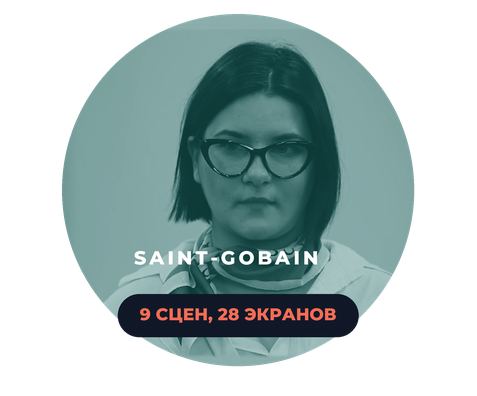
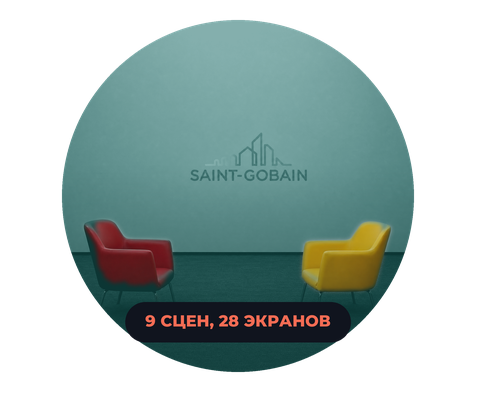
Новые круги-обложки: стенды Самары и Ставрополья, выставка «Самара», обучение Saint-Gobain
Три стенда выбивались из ряда огромными плашками, у обучающих видео
Saint-Gobain на обложке было лицо снятой актрисы. Теперь у всех четырёх
крупное название внутри круга и таблетка с одной цифрой, как у соседних
карточек.

- Самарская область: кадр паруса со стенда, ладья выходит носом за круг
  (парус и ладья разнесены на слои через NordRouter, gpt-image-2-edit)
- Ставрополье: куб с объёмной пшеницей, тинт ослаблен
- Выставка «Самара»: экран-парус, «4 месяца под ключ»
- Saint-Gobain: та же переговорная без актёров, кресла в родном цвете

Генератор scripts/gen-covers-stands-sgt.py, исходники в scripts/covers-src/.
В .gitignore добавлены __pycache__ и *.pyc.

diff --git a/scripts/gen-covers-stands-sgt.py b/scripts/gen-covers-stands-sgt.py
@@ -1,0 +1,273 @@
+#!/usr/bin/env python3
+"""Новые круги-постеры (477×396) для четырёх карточек, которые выбивались из ряда:
+стенд Самарской области, стенд Ставрополья, выставка «Самара», обучение Saint-Gobain.
+
+Механика одна на всех, в ключе соседних SG-карточек (v2.2): настоящее фото
+под тинтом цвета кейса, имя клиента разрядкой, тёмная таблетка с одной
+метрикой, кубики HM по углам. Огромных плашек больше нет.
+
+Картинки, сделанные через NordRouter (tools/nordrouter), лежат в scripts/covers-src/:
+- sgt-empty-room-sq.png: общий план переговорной курса (d1-wide), из кадра убраны
+  оба актёра (лиц снятых людей на карточке быть не должно) и кадр достроен до
+  квадрата (gpt-image-2-edit, два прохода). Кресла остаются в родном цвете;
+- stav-cube-cut.png: графика куба, вырезанная из фона (recraft-remove-bg); из неё
+  stav-wheat.png, пшеничное «сердце» без остатков рамки. Лежит поверх круга
+  и выходит за его верх, как объёмная графика выходила за грани куба.
+
+python3 scripts/gen-covers-stands-sgt.py [--out DIR]   (без --out пишет в mirror)
+webp потом через scripts/gen-webp.sh."""
+import argparse
+import os
+
+from PIL import Image, ImageDraw, ImageFont, ImageFilter, ImageOps
+
+HERE = os.path.dirname(os.path.abspath(__file__))
+ROOT = os.path.abspath(os.path.join(HERE, '..'))
+SRC = os.path.join(HERE, 'covers-src')
+LIB = os.path.join(ROOT, 'mirror', 'images', 'lib')
+_FONT = os.path.join(HERE, 'fonts', 'Montserrat.ttf')
+
+W, H = 477, 396
+CX, CY, R = 238, 196, 176
+SS = 4
+WHITE = (255, 255, 255)
+INK = (16, 20, 30)
+
+# кубики HM с карточки Eaton: вырезаем по связной области цвета, без
+# хвостов белого круга и линий, которые попадают в прямоугольный кроп
+_E = Image.open(os.path.join(LIB, 'as6135-3563-4735-a365-643234376439', 'icons-112.png')).convert('RGBA')
+_BOX = {'green': (19, 14, 81, 77), 'orange': (379, 26, 443, 92),
+        'red': (14, 296, 75, 372), 'magenta': (382, 341, 449, 382)}
+
+
+def _sprite(box, pad=6):
+    x0, y0, x1, y1 = box
+    crop = _E.crop((x0 - pad, y0 - pad, x1 + pad, y1 + pad))
+    px = crop.load()
+    keep = Image.new('L', crop.size, 0)
+    kp = keep.load()
+    for y in range(crop.height):
+        for x in range(crop.width):
+            r, g, b, a = px[x, y]
+            if a > 20 and max(r, g, b) - min(r, g, b) > 45:
+                kp[x, y] = 255
+    keep = keep.filter(ImageFilter.MaxFilter(5))
+    crop.putalpha(Image.composite(crop.getchannel('A'), Image.new('L', crop.size, 0), keep))
+    return crop
+
+
+CUBE = {k: _sprite(v) for k, v in _BOX.items()}
+
+METRICS = {
+    'samara-vdnh': 'ВЫСТАВКА-ФОРУМ «РОССИЯ»',
+    'stavropol-vdnh': '248 ДНЕЙ НА ВДНХ',
+    'samara-exhibition': '4 МЕСЯЦА ПОД КЛЮЧ',
+}
+POP_LADYA = (236, 0, 236)  # x, y, ширина вырезанной ладьи на холсте 477×396
+
+
+def font(sz, v='ExtraBold'):
+    f = ImageFont.truetype(_FONT, sz)
+    try:
+        f.set_variation_by_name(v)
+    except Exception:
+        pass
+    return f
+
+
+def square(path, fx=0.5, fy=0.5, zoom=1.0):
+    """Квадратный кроп с фокусом (fx, fy) и приближением zoom."""
+    im = Image.open(path).convert('RGB')
+    side = int(min(im.size) / zoom)
+    left = int((im.width - side) * fx)
+    top = int((im.height - side) * fy)
+    return im.crop((left, top, left + side, top + side))
+
+
+def tint(im, dark, mid, hi=0.3):
+    """Дуотон: тени в dark, средние в mid, свет к белому (как у SG-карточек)."""
+    g = ImageOps.autocontrast(im.convert('L'), cutoff=2)
+    bands = []
+    for c in range(3):
+        lut = [max(0, min(255, round(dark[c] + (mid[c] - dark[c]) * (v / 255)
+                                     + (255 - mid[c]) * (v / 255) ** 2 * hi))) for v in range(256)]
+        bands.append(g.point(lut))
+    return Image.merge('RGB', bands)
+
+
+def spaced(d, cx, y, text, f, color, track):
+    ws = [d.textbbox((0, 0), ch, font=f)[2] for ch in text]
+    total = sum(ws) + track * (len(text) - 1)
+    x = cx - total / 2
+    for ch, w in zip(text, ws):
+        d.text((x, y), ch, font=f, fill=color)
+        x += w + track
+
+
+def pill(d, cx, y, text, fg, S, size=16, maxw=290):
+    pf = font(int(size * S))
+    while d.textlength(text, font=pf) > maxw * S and size > 12:
+        size -= 1
+        pf = font(int(size * S))
+    tb = d.textbbox((0, 0), text, font=pf)
+    tw, th = tb[2] - tb[0], tb[3] - tb[1]
+    px, py = int(20 * S), int(13 * S)
+    pw, ph = tw + px * 2, th + py * 2
+    x = cx - pw // 2
+    d.rounded_rectangle([x, y, x + pw, y + ph], radius=ph // 2, fill=INK + (255,))
+    d.text((x + px - tb[0], y + py - tb[1]), text, font=pf, fill=fg + (255,))
+
+
+def cubes(img, spec, S):
+    for name, (x, y), scale, flip in spec:
+        spr = CUBE[name]
+        spr = spr.resize((int(spr.width * scale * S), int(spr.height * scale * S)), Image.LANCZOS)
+        if flip:
+            spr = spr.transpose(Image.FLIP_LEFT_RIGHT)
+        img.alpha_composite(spr, (int(x * S), int(y * S)))
+
+
+def title_block(img, cx, y, lines, S, size=31, maxw=300):
+    """Крупное название в 1-2 строки с мягкой тенью, чтобы читалось на любом фото."""
+    f = font(int(size * S), 'Black')
+    probe = ImageDraw.Draw(img)
+    while max(probe.textlength(ln, font=f) for ln in lines) > maxw * S and size > 20:
+        size -= 1
+        f = font(int(size * S), 'Black')
+    lh = int(size * 1.08 * S)
+    sh = Image.new('RGBA', img.size, (0, 0, 0, 0))
+    ds = ImageDraw.Draw(sh)
+    for i, ln in enumerate(lines):
+        tw = ds.textlength(ln, font=f)
+        ds.text((cx - tw / 2, y + i * lh + 2 * S), ln, font=f, fill=(0, 0, 0, 150))
+    img.alpha_composite(sh.filter(ImageFilter.GaussianBlur(5 * S)))
+    d = ImageDraw.Draw(img)
+    for i, ln in enumerate(lines):
+        tw = d.textlength(ln, font=f)
+        d.text((cx - tw / 2, y + i * lh), ln, font=f, fill=WHITE + (255,))
+
+
+def poster(photo, dark, mid, name, metric, metric_fg, cube_spec, pop=None, hi=0.18, keep=None,
+           title=None, mix=1.0, title_y=24, pop_under=False):
+    S = SS
+    img = Image.new('RGBA', (W * S, H * S), (0, 0, 0, 0))
+    cx, cy, r = CX * S, CY * S, R * S
+    src = photo.resize((2 * r, 2 * r), Image.LANCZOS)
+    disc = tint(src, dark, mid, hi).convert('RGBA')
+    if mix < 1.0:
+        # тон кейса только слоем поверх фото, чтобы картинка читалась
+        disc = Image.blend(src.convert('RGBA'), disc, mix)
+    if keep is not None:
+        # цвет возвращается только там, где keep(r, g, b, y) вернул True
+        m = Image.new('L', src.size, 0)
+        sp, mp = src.load(), m.load()
+        for y in range(src.height):
+            for x in range(src.width):
+                if keep(*sp[x, y], y / src.height):
+                    mp[x, y] = 255
+        m = m.filter(ImageFilter.MaxFilter(3)).filter(ImageFilter.GaussianBlur(2 * S))
+        disc = Image.composite(src.convert('RGBA'), disc, m)
+    # затемнение низа круга под имя и таблетку
+    col = Image.new('L', (1, 256))
+    for y in range(256):
+        t = max(0.0, (y / 255 - 0.40) / 0.60)
+        col.putpixel((0, y), int((200 if title else 160) * t ** 1.2))
+    shade = Image.new('RGBA', (2 * r, 2 * r), dark + (0,))
+    shade.putalpha(col.resize((2 * r, 2 * r)))
+    disc.alpha_composite(shade)
+    mask = Image.new('L', (2 * r, 2 * r), 0)
+    ImageDraw.Draw(mask).ellipse([0, 0, 2 * r - 1, 2 * r - 1], fill=255)
+    img.paste(disc, (cx - r, cy - r), mask)
+    cubes(img, cube_spec, S)
+    if pop is not None:
+        spr, (px, py, pw) = pop
+        k = pw * S / spr.width
+        spr = spr.resize((int(spr.width * k), int(spr.height * k)), Image.LANCZOS)
+        # низ объекта обрезает круг, за край выходит только верх (нос ладьи)
+        ox, oy = int(px * S), int(py * S)
+        clip = Image.new('L', img.size, 0)
+        cd = ImageDraw.Draw(clip)
+        cd.ellipse([cx - r, cy - r, cx + r, cy + r], fill=255)
+        cd.rectangle([0, 0, img.size[0], cy - int(40 * S)], fill=255)
+        clip = clip.filter(ImageFilter.GaussianBlur(1 * S)).crop((ox, oy, ox + spr.width, oy + spr.height))
+        spr.putalpha(Image.composite(spr.getchannel('A'), Image.new('L', spr.size, 0), clip))
+        a = spr.getchannel('A')
+        rgb = spr.copy()  # в родном цвете
+        sh = Image.new('RGBA', rgb.size, (0, 0, 0, 0))
+        sh.putalpha(a.point(lambda v: int(v * 0.35)))
+        sh = sh.filter(ImageFilter.GaussianBlur(6 * S))
+        img.alpha_composite(sh, (int(px * S), int(py * S) + 6 * S))
+        img.alpha_composite(rgb, (int(px * S), int(py * S)))
+    if title:
+        title_block(img, cx, cy + int(title_y * S), title, S)
+    d = ImageDraw.Draw(img)
+    if name:
+        spaced(d, cx, cy + int(62 * S), name, font(int(18 * S)), WHITE + (255,), int(3 * S))
+    if metric:
+        if title:
+            pill(d, cx, cy + r - int(74 * S), metric, metric_fg, S, size=18)
+        else:
+            pill(d, cx, cy + r - int(70 * S), metric, metric_fg, S)
+    return img.resize((W, H), Image.LANCZOS)
+
+
+# раскладки кубиков: у каждой карточки своя
+CUBES_A = [('orange', (6, 10), 1.0, True), ('green', (8, 300), 1.0, False),
+           ('magenta', (392, 334), 1.0, False)]
+CUBES_B = [('green', (4, 40), 1.0, True), ('red', (8, 300), 0.95, False),
+           ('orange', (402, 290), 1.0, False)]
+CUBES_C = [('magenta', (8, 336), 1.0, True), ('orange', (404, 10), 1.0, False),
+           ('red', (406, 290), 0.95, True)]
+
+
+def build():
+    out = {}
+    # кадр с паруса на стенде: белый парус с гербом, небо, ладья (присланный кадр лежит
+    # в covers-src/ladya-photo.jpg). Через gpt-image-2-edit из него сделаны два слоя:
+    # sail-clean.jpg (лодка убрана, парус и небо достроены) и ladya-boat.png
+    # (сама ладья). Круг берёт парус, ладья поверх выходит носом за край круга
+    boat = os.path.join(SRC, 'ladya-boat.png')
+    pop = (Image.open(boat).convert('RGBA'), POP_LADYA) if os.path.exists(boat) else None
+    out['custom-samara-vdnh'] = poster(
+        Image.open(os.path.join(SRC, 'sail-clean.jpg')).convert('RGB').crop((176, 105, 1143, 1072)),
+        dark=(20, 30, 90), mid=(40, 90, 200), name='', title=['СТЕНД САМАРСКОЙ', 'ОБЛАСТИ'],
+        metric=METRICS['samara-vdnh'], metric_fg=(120, 190, 255), cube_spec=CUBES_A,
+        pop=pop, mix=0.0, title_y=46)
+    out['custom-stavropol-vdnh'] = poster(
+        square(os.path.join(ROOT, 'mirror', 'images', 'stavropol', 'poster-main.jpg'), 0.5, 0.2),
+        dark=(24, 10, 40), mid=(104, 56, 132), name='', title=['СТЕНД', 'СТАВРОПОЛЬЯ'],
+        metric=METRICS['stavropol-vdnh'], metric_fg=(206, 160, 255), cube_spec=CUBES_B,
+        mix=0.3, title_y=34)
+    out['custom-samara-exhibition'] = poster(
+        square(os.path.join(ROOT, 'mirror', 'portfolio', 'samara-exhibition', 'photos', 'Ekran_parus.jpg'), 0.28),
+        dark=(10, 36, 10), mid=(70, 140, 36), name='', title=['ВЫСТАВКА', '«САМАРА»'],
+        metric=METRICS['samara-exhibition'], metric_fg=(150, 230, 90), cube_spec=CUBES_C,
+        mix=0.35, title_y=34)
+    room = os.path.join(SRC, 'sgt-empty-room-sq.jpg')
+    if os.path.exists(room):
+        im = Image.open(room).convert('RGB')
+        side = im.width
+        im = im.crop((0, 0, side, side))
+
+        def chairs(r_, g_, b_, yy):
+            # красное и жёлтое кресло: насыщенные тёплые пиксели в нижней половине
+            return yy > 0.45 and max(r_, g_, b_) - min(r_, g_, b_) > 90 and r_ > 110 and b_ < 90
+        # имя клиента не пишем: знак Saint-Gobain уже висит на стене в кадре
+        out['custom-sgtraining'] = poster(
+            im, dark=(12, 54, 52), mid=(31, 110, 106), name='',
+            metric='9 СЦЕН, 28 ЭКРАНОВ', metric_fg=(244, 108, 84), cube_spec=[], hi=0.45, keep=chairs)
+    return out
+
+
+if __name__ == '__main__':
+    a = argparse.ArgumentParser()
+    a.add_argument('--out', help='папка для черновиков; без неё пишет в mirror/images/lib/<slug>/')
+    x = a.parse_args()
+    for slug, im in build().items():
+        if x.out:
+            os.makedirs(x.out, exist_ok=True)
+            p = os.path.join(x.out, slug + '.png')
+        else:
+            p = os.path.join(LIB, slug, 'cover-main.png')
+        im.save(p)
+        print('written', p)
